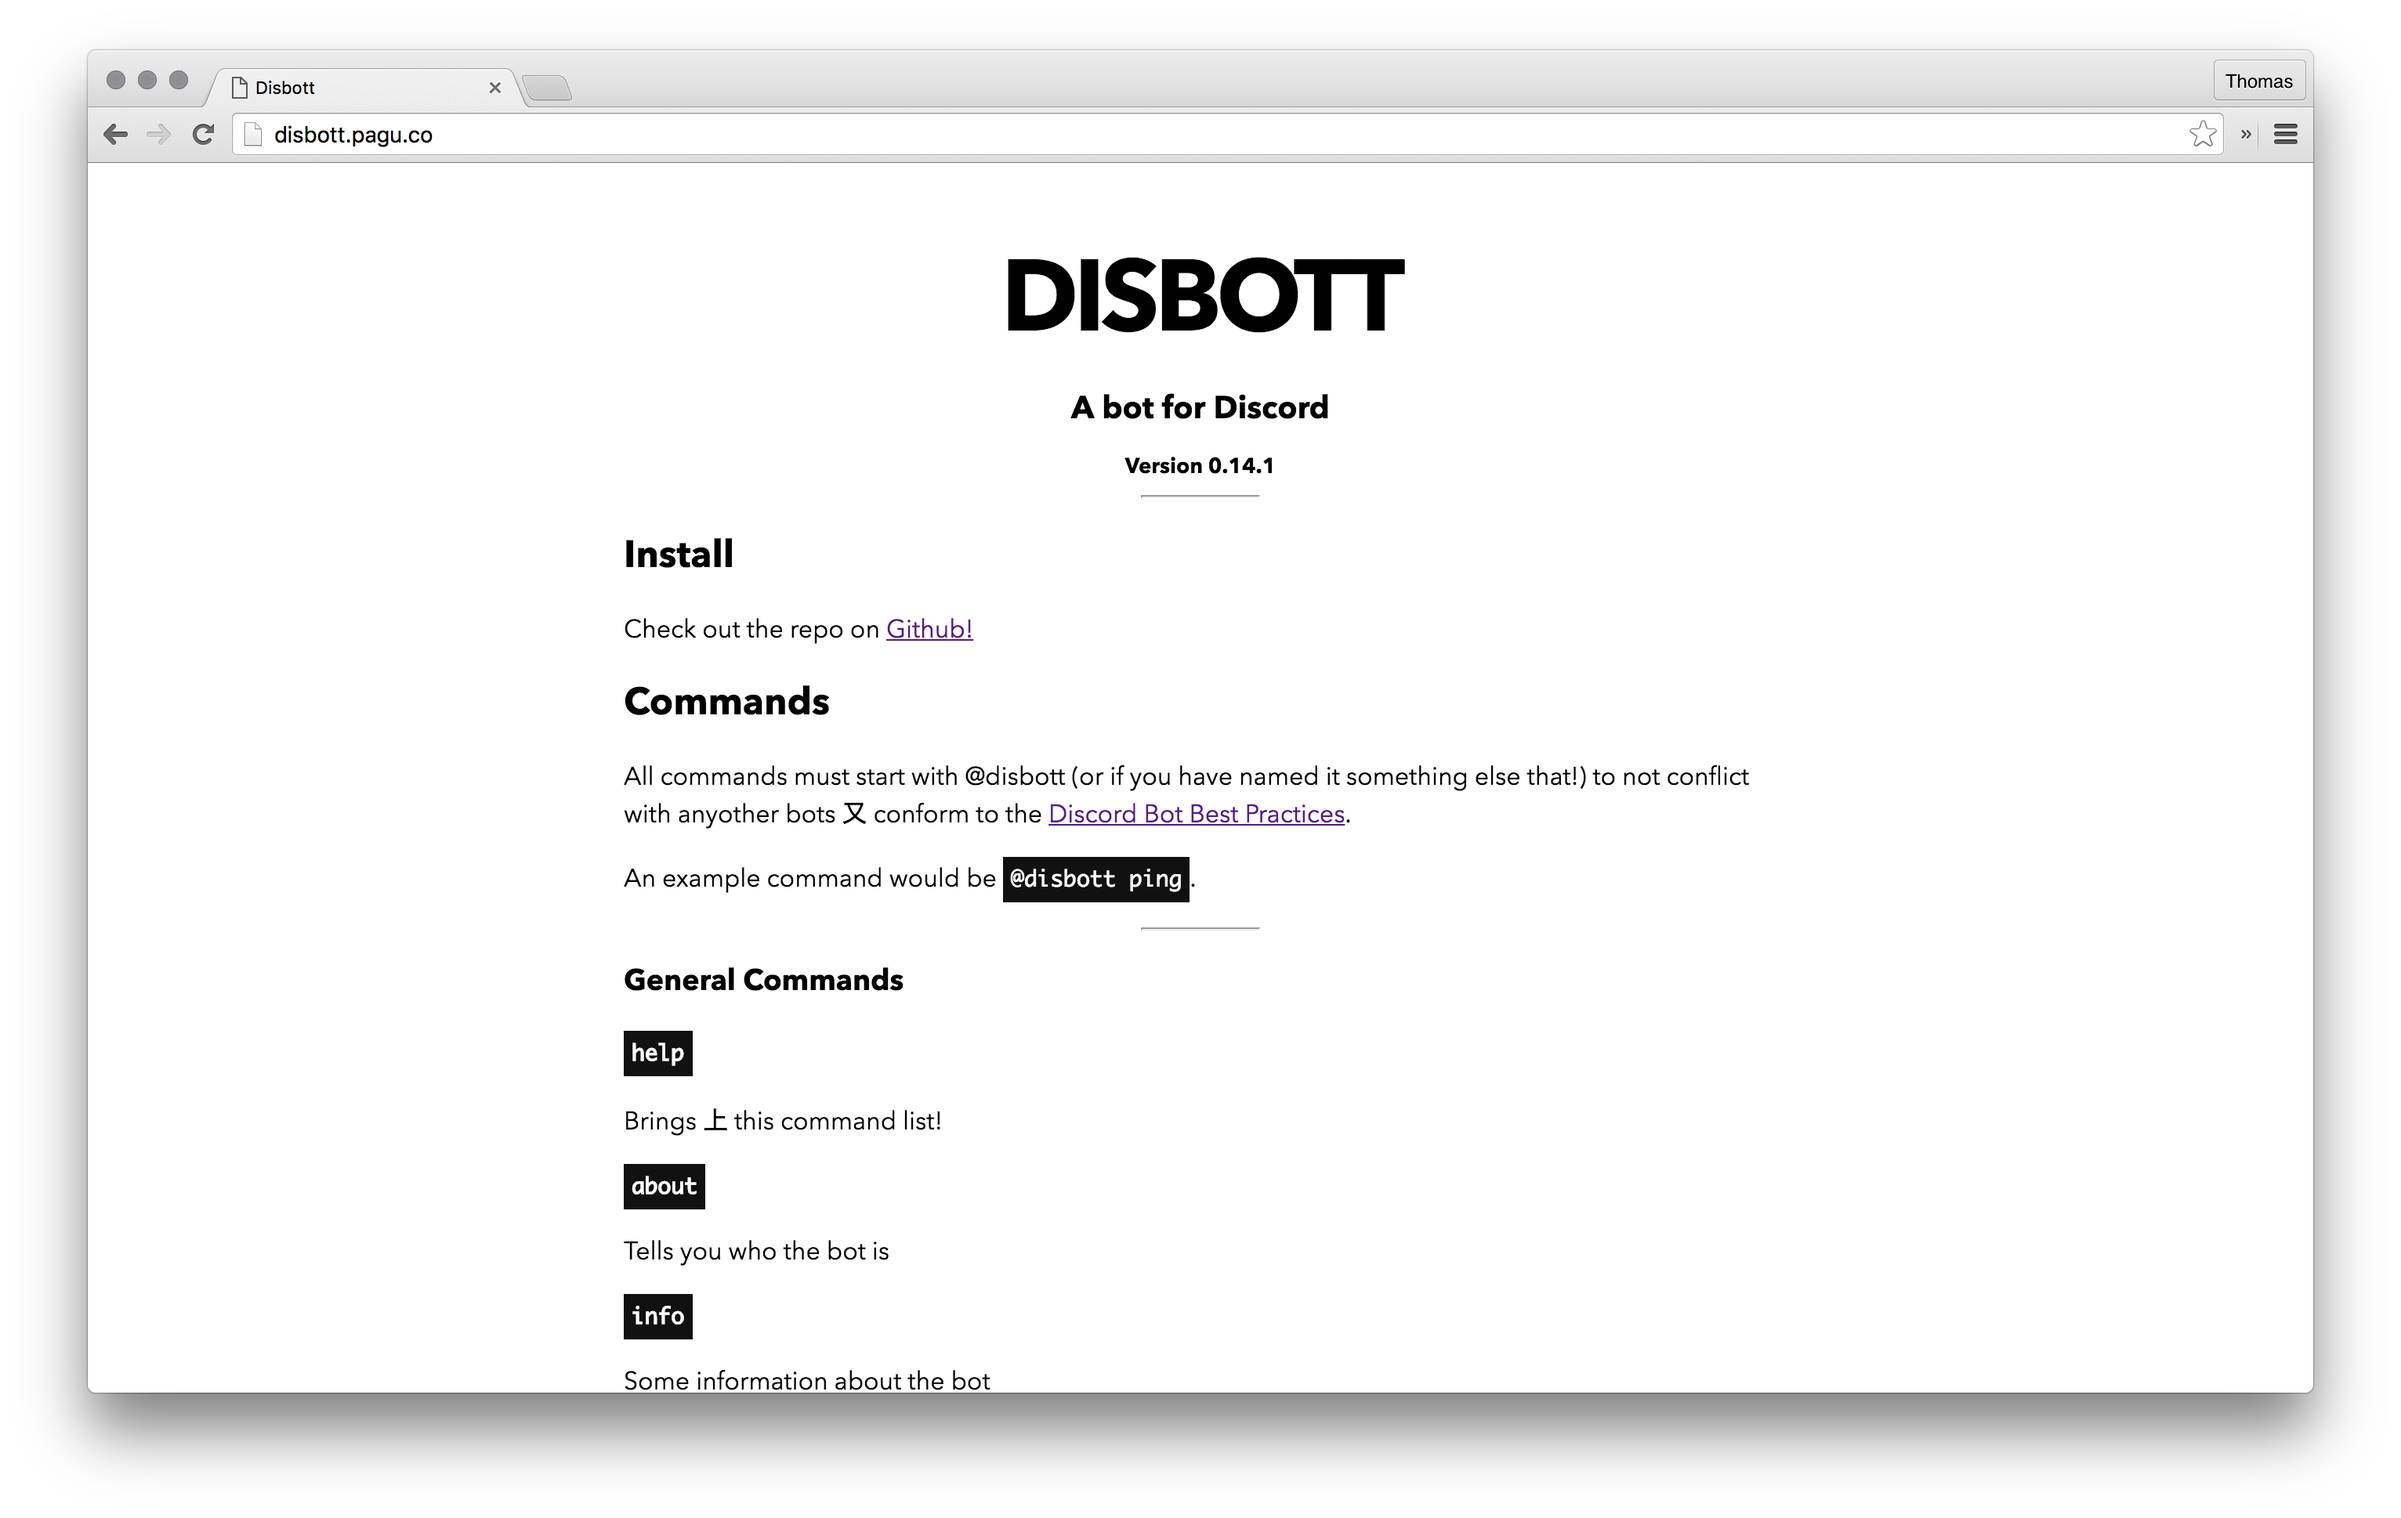
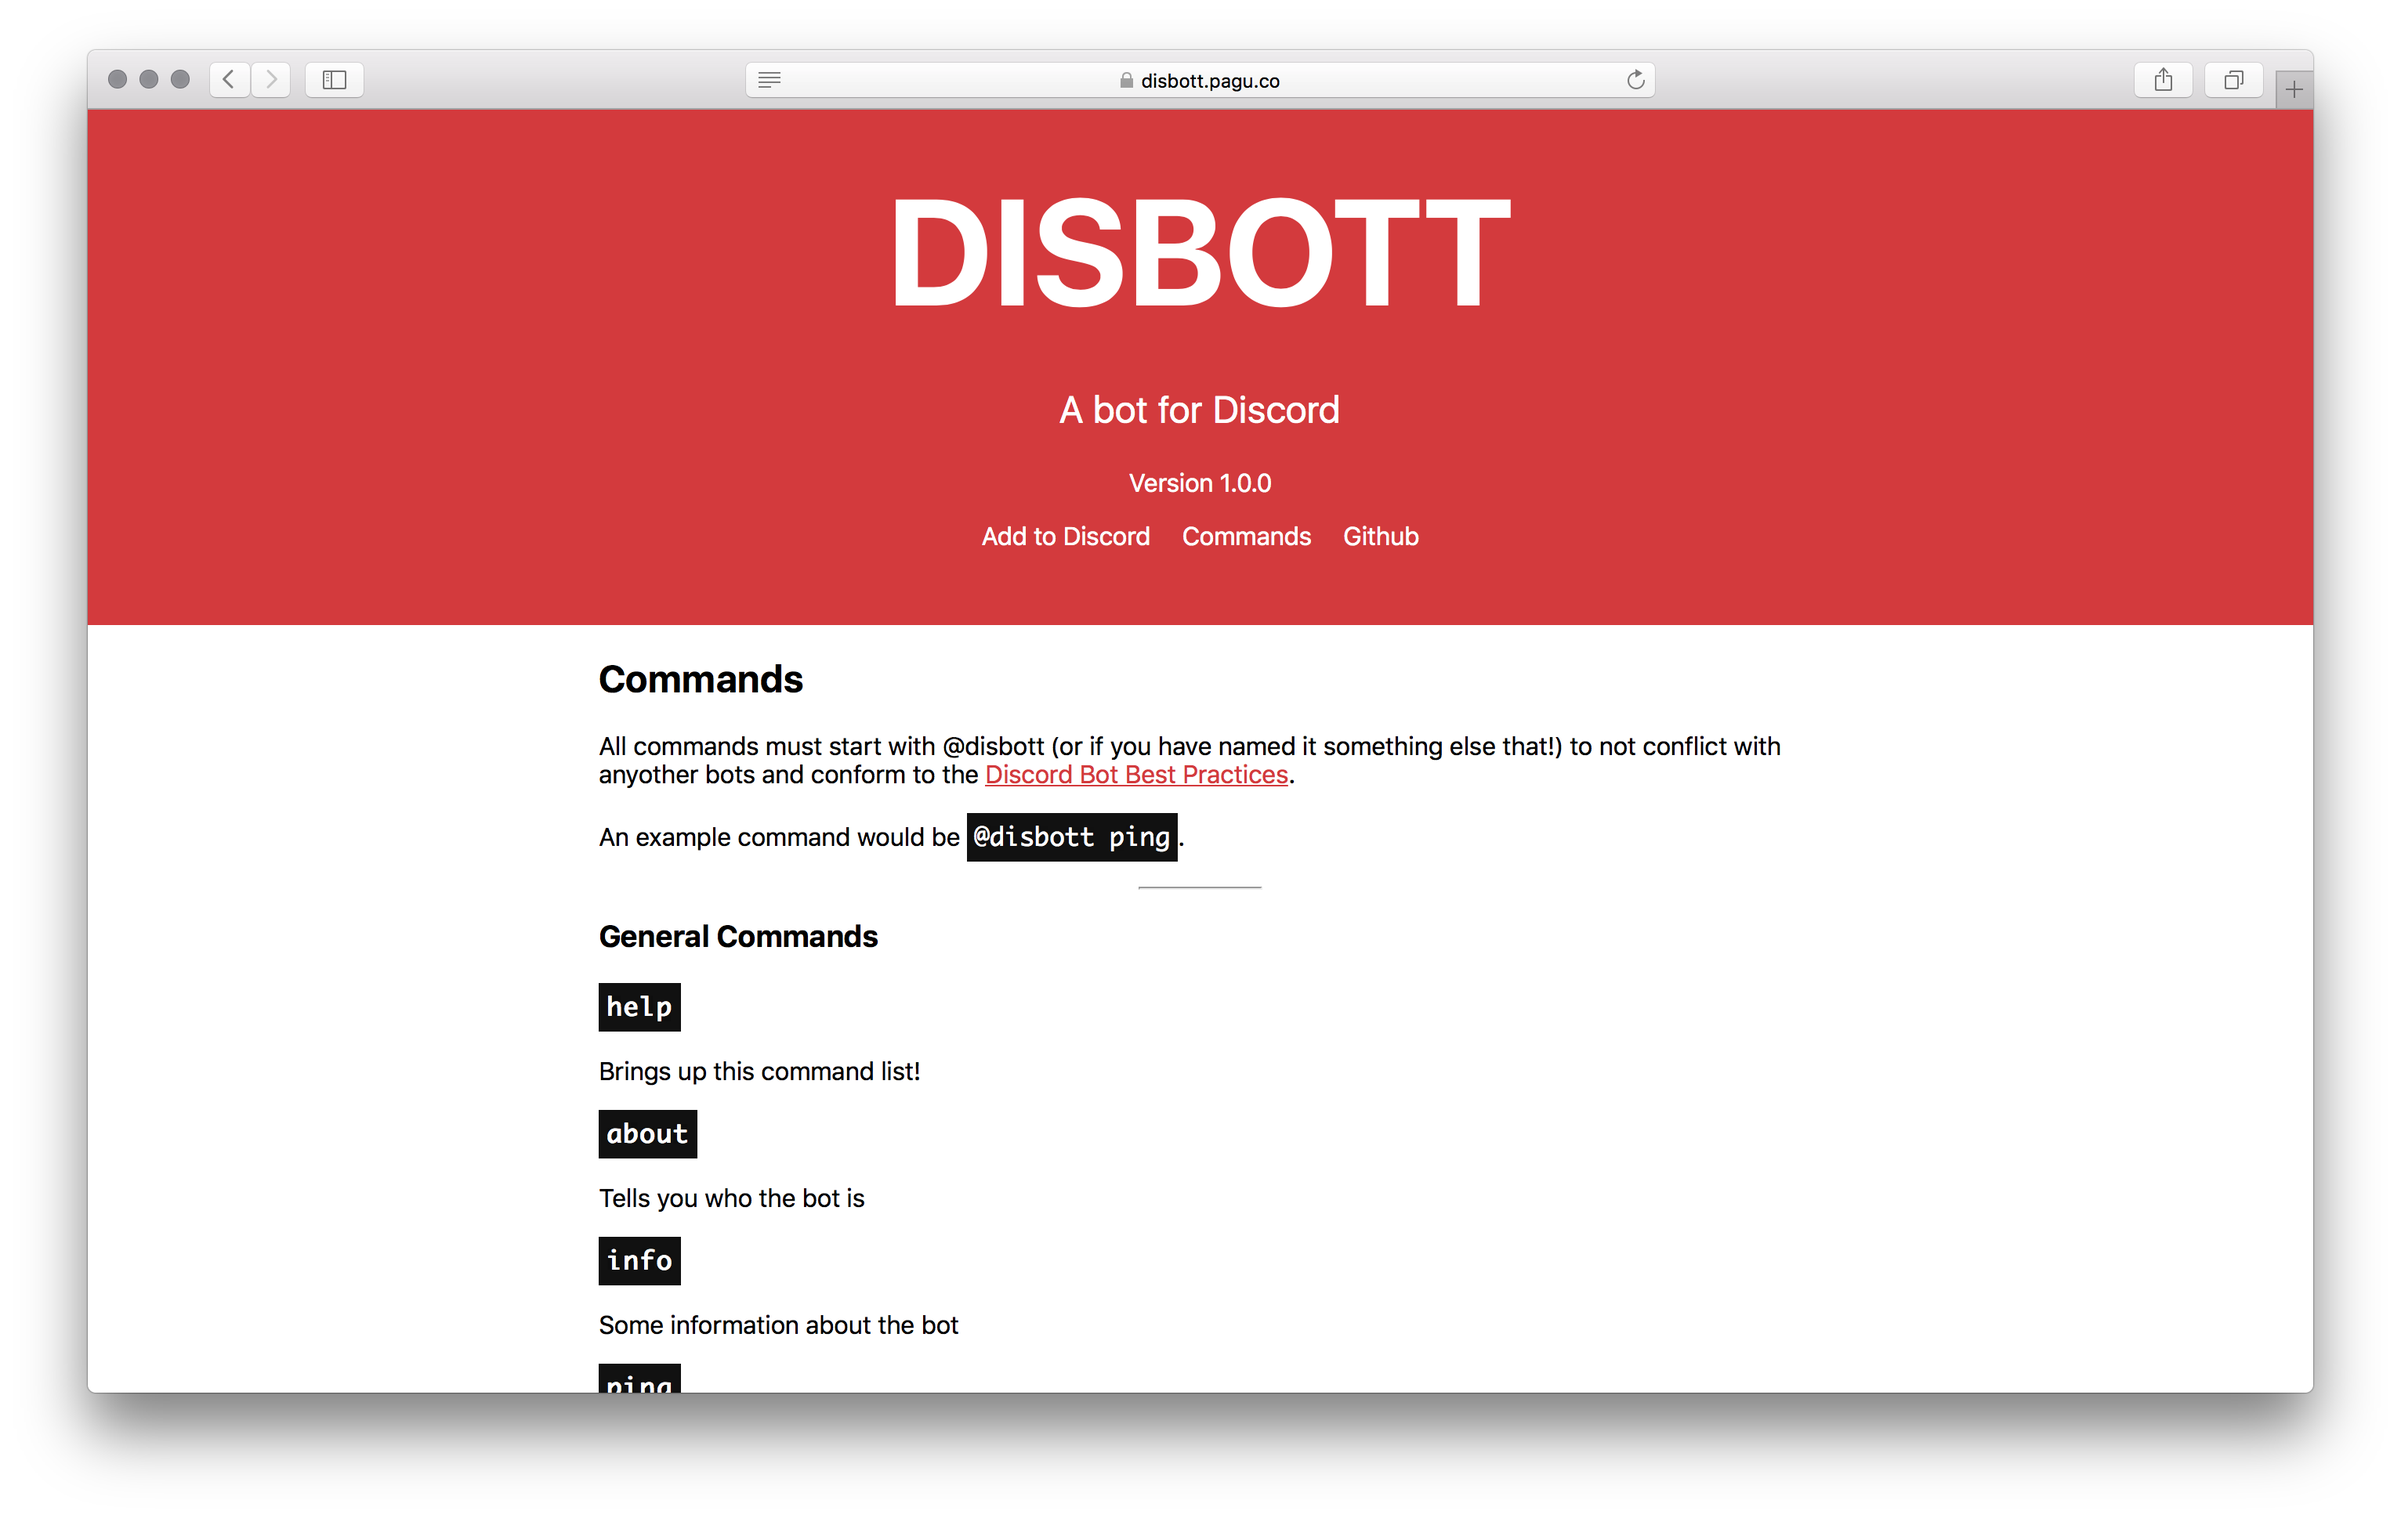
Replace Oshimen and update Disbott image

diff --git a/src/components/Code/index.jsx b/src/components/Code/index.jsx
@@ -47,34 +47,24 @@ class Code extends React.Component {
 						<Box px={2} sm={6} md={9} className="projects-area">
 							<h3>Projects</h3>
 							<Project
-								ptitle="Oshimen"
-								pimage="assets/images/projects/oshimen.png"
+								ptitle="Start (スタート)"
+								pimage="assets/images/projects/start.png"
 								pdesc="
-									Oshimen is a webapp to easily showcase the idols that a user supports.
-									For example instead of just listing the idols,
-									oshimen gives a nice page you can link to.
+								This start page replaces your browser's new tab page
+								and is a nice looking alternative which can be customisable
+								with a few changes to the config file.
 								"
-								plink="https://oshimen.pagu.co"
+								plink="https://github.com/tomopagu/start"
 							/>
 							<Project
 								ptitle="Disbott"
 								pimage="assets/images/projects/disbott.png"
 								pdesc="
-									Disbott is a bot for Discord.
-									It's written in node and is primarily in use for some fun commands on mine
-									and friends' discord servers.
+								Disbott is a bot for Discord.
+								It's written in node and is primarily in use for some fun commands on mine
+								and friends' discord servers.
 								"
 								plink="https://disbott.pagu.co"
-							/>
-							<Project
-								ptitle="Start (スタート)"
-								pimage="assets/images/projects/start.png"
-								pdesc="
-									This start page replaces your browser's new tab page
-									and is a nice looking alternative which can be customisable
-									with a few changes to the config file.
-								"
-								plink="https://github.com/tomopagu/start"
 							/>
 						</Box>
 						<Box px={2} sm={6} md={3} className="github-area">
